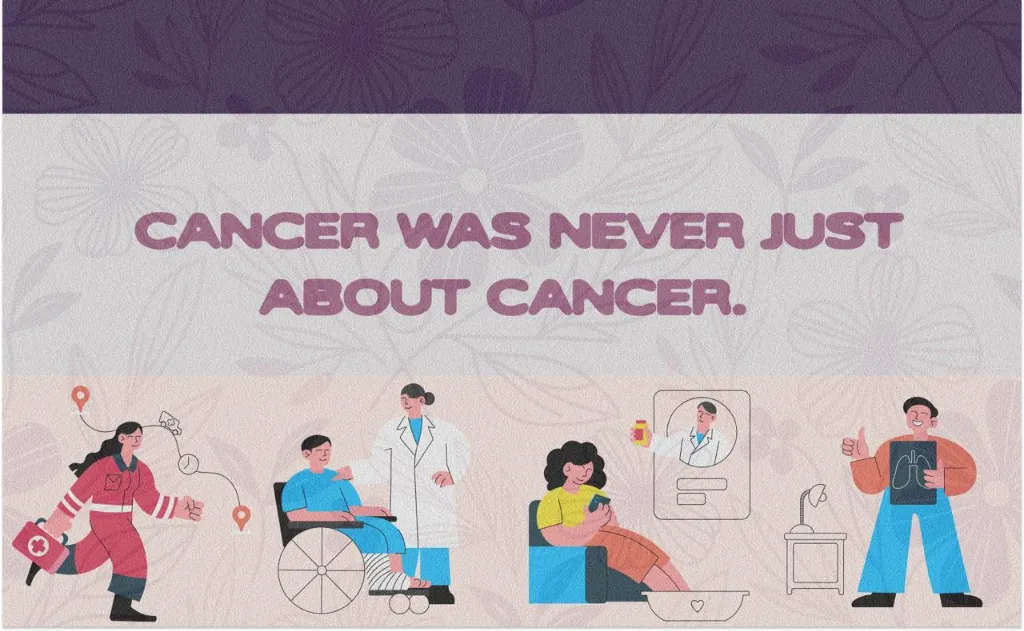
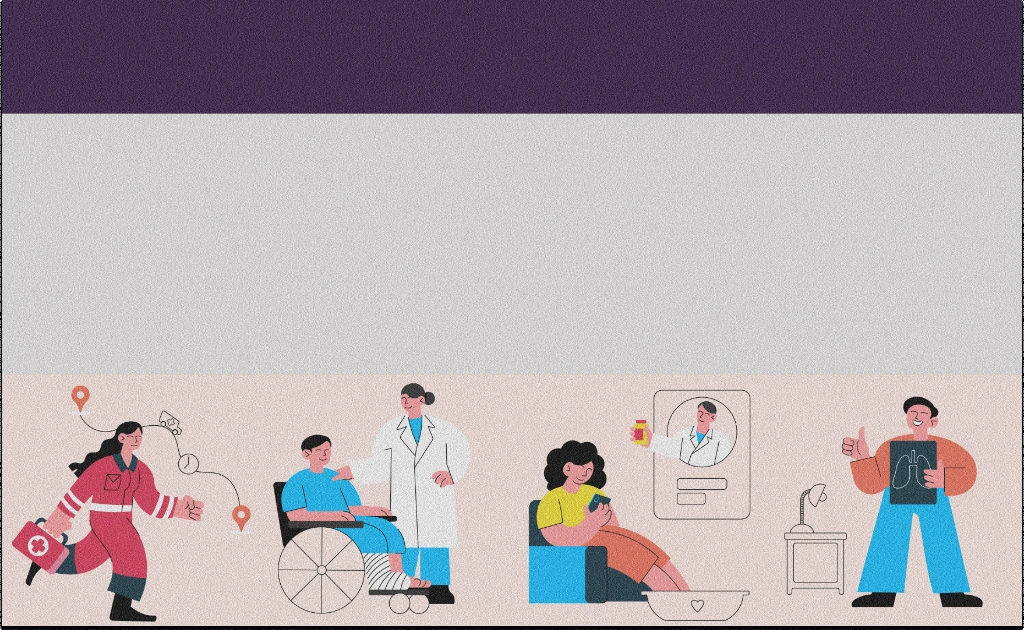
changes

diff --git a/src/components/sections/AnimatedStory.css b/src/components/sections/AnimatedStory.css
@@ -5,6 +5,7 @@
   min-height: 100dvh;
   overflow: hidden;
   background: #0b0b0c;
+  position: relative;
 }
 
 .animated-story__stage {
@@ -46,33 +47,115 @@
   will-change: opacity;
 }
 
-/* Desktop default: edge-to-edge cover */
-.animated-story__slide-bg {
-  display: none;
-}
-
-.animated-story__slide-fg {
+.animated-story__card {
+  position: relative;
+  display: block;
   width: 100%;
   height: 100%;
-  padding: 0;
-  object-fit: cover;
-  object-position: center;
-  display: block;
+  overflow: hidden;
 }
 
+.animated-story__image {
+  position: absolute;
+  inset: 0;
+  display: block;
+  width: 100%;
+  height: 100%;
+  object-fit: cover;
+  object-position: center;
+}
+
+/* Base text overlay */
+.animated-story__overlay {
+  position: absolute;
+  inset: 0;
+  display: flex;
+  width: 100%;
+  height: 100%;
+  pointer-events: none;
+  z-index: 2;
+  box-sizing: border-box;
+}
+
+.animated-story__title {
+  display: flex;
+  flex-direction: column;
+  font-family: var(--font-syne), var(--font-winter-solace), sans-serif;
+  font-weight: 800;
+  text-transform: uppercase;
+}
+
+.animated-story__line {
+  display: block;
+  white-space: nowrap;
+}
+
+/* Slide 1 Styling */
 .animated-story__slide--1 {
   background: #ded2d7;
   animation-delay: -0.15s;
 }
 
+.animated-story__overlay--1 {
+  align-items: center;
+  justify-content: center;
+  padding-bottom: 7.5%;
+}
+
+.animated-story__title--1 {
+  align-items: center;
+  text-align: center;
+  color: #3e244d;
+  font-size: clamp(1.2rem, 3.8vw, 3.5rem);
+  line-height: 1.16;
+  letter-spacing: -0.015em;
+  text-shadow: 0 1px 3px rgba(255, 255, 255, 0.35);
+}
+
+/* Slide 2 Styling */
 .animated-story__slide--2 {
   background: #c6b2bd;
   animation-delay: 1.05s;
 }
 
+.animated-story__overlay--2 {
+  align-items: flex-start;
+  justify-content: flex-start;
+  padding-top: 17%;
+  padding-left: 7%;
+}
+
+.animated-story__title--2 {
+  align-items: center;
+  text-align: center;
+  color: #351c44;
+  font-size: clamp(1.1rem, 3.2vw, 3.1rem);
+  line-height: 1.2;
+  letter-spacing: -0.015em;
+  width: 38%;
+}
+
+/* Slide 3 Styling */
 .animated-story__slide--3 {
   background: #a97d91;
   animation-delay: 2.25s;
+}
+
+.animated-story__overlay--3 {
+  align-items: center;
+  justify-content: flex-end;
+  padding-right: 5.5%;
+}
+
+.animated-story__title--3 {
+  align-items: flex-start;
+  text-align: left;
+  color: #ffffff;
+  font-size: clamp(1.05rem, 3.1vw, 2.9rem);
+  line-height: 1.22;
+  letter-spacing: 0.01em;
+  width: 36%;
+  text-shadow: 0 2px 14px rgba(0, 0, 0, 0.35);
 }
 
 .animated-story__stage--paused .animated-story__slide {
@@ -95,45 +178,50 @@
   }
 }
 
-/* Mobile & Portrait screens: contain foreground image so it is NEVER cut off */
+/* Mobile & Portrait screens: contain image and card so it is NEVER cut off */
 @media (max-width: 768px), (orientation: portrait) and (max-width: 1024px) {
   .animated-story__slide {
     display: flex;
     align-items: center;
     justify-content: center;
+    padding: 64px 14px 54px;
+    box-sizing: border-box;
+  }
+
+  .animated-story__card {
+    position: relative;
+    width: 100%;
+    aspect-ratio: 1024 / 640;
+    max-height: calc(100vh - 120px);
+    border-radius: 16px;
+    box-shadow: 0 16px 45px rgba(0, 0, 0, 0.45);
     overflow: hidden;
   }
 
-  .animated-story__slide-bg {
-    display: block;
-    position: absolute;
-    inset: -15%;
-    width: 130%;
-    height: 130%;
-    object-fit: cover;
-    object-position: center;
-    filter: blur(28px) brightness(0.65);
-    opacity: 0.85;
-    transform: scale(1.1);
-    pointer-events: none;
-  }
-
-  .animated-story__slide-fg {
-    position: relative;
-    z-index: 1;
+  .animated-story__image {
     width: 100%;
     height: 100%;
-    object-fit: contain;
-    object-position: center;
-    /* Safe padding prevents overlap with fixed top bar and bottom carousel */
-    padding: 4.75rem 0.85rem 3.5rem;
-    filter: drop-shadow(0 8px 30px rgba(0, 0, 0, 0.5));
+    object-fit: cover;
+  }
+
+  .animated-story__title--1 {
+    font-size: clamp(0.78rem, 3.4vw, 1.4rem);
+  }
+
+  .animated-story__title--2 {
+    font-size: clamp(0.72rem, 3vw, 1.25rem);
+    width: 42%;
+  }
+
+  .animated-story__title--3 {
+    font-size: clamp(0.68rem, 2.8vw, 1.2rem);
+    width: 38%;
   }
 }
 
 .animated-story__play {
   position: absolute;
-  z-index: 2;
+  z-index: 3;
   top: 50%;
   left: 50%;
   display: grid;

diff --git a/src/components/sections/AnimatedStory.tsx b/src/components/sections/AnimatedStory.tsx
@@ -3,22 +3,47 @@
 import { useState } from "react";
 import "./AnimatedStory.css";
 
+type StorySlide = {
+  id: number;
+  image: string;
+  lines: string[];
+};
+
+const defaultSlides: StorySlide[] = [
+  {
+    id: 1,
+    image: "/assets/story-bg-1.webp",
+    lines: ["CANCER WAS NEVER JUST", "ABOUT CANCER."],
+  },
+  {
+    id: 2,
+    image: "/assets/story-bg-2.webp",
+    lines: ["SO, WE STARTED", "ASKING WHY."],
+  },
+  {
+    id: 3,
+    image: "/assets/story-bg-3.webp",
+    lines: ["BECAUSE", "NO ONE", "CHANGES", "THE", "SYSTEM", "ALONE."],
+  },
+];
+
 type AnimatedStoryProps = {
+  slides?: StorySlide[];
   images?: string[];
   className?: string;
 };
 
-const defaultImages = [
-  "/assets/story-bg-1.webp",
-  "/assets/story-bg-2.webp",
-  "/assets/story-bg-3.webp",
-];
-
 export default function AnimatedStory({
-  images = defaultImages,
+  slides = defaultSlides,
+  images,
   className = "",
 }: AnimatedStoryProps) {
   const [isPlaying, setIsPlaying] = useState(true);
+
+  // Allow passing raw image URLs array as fallback
+  const resolvedSlides: StorySlide[] = images && images.length > 0
+    ? images.map((src, idx) => defaultSlides[idx] || { id: idx + 1, image: src, lines: [] })
+    : slides;
 
   return (
     <section
@@ -34,28 +59,30 @@ export default function AnimatedStory({
         aria-label={isPlaying ? "Pause animation" : "Play animation"}
       >
         <span className="animated-story__slides" aria-hidden="true">
-          {images.map((source, index) => (
+          {resolvedSlides.map((slide, index) => (
             <span
-              key={`${source}-${index}`}
-              className={`animated-story__slide animated-story__slide--${
-                index + 1
-              }`}
+              key={`${slide.image}-${index}`}
+              className={`animated-story__slide animated-story__slide--${slide.id}`}
             >
-              {/* Mobile Ambient Blurred Backdrop: fills full 100vh viewport softly so no cutoff */}
-              <img
-                className="animated-story__slide-bg"
-                src={source}
-                alt=""
-                fetchPriority={index === 0 ? "high" : "auto"}
-                aria-hidden="true"
-              />
-              {/* Main Crisp Foreground Image: contained on mobile to prevent cutoff, cover on desktop */}
-              <img
-                className="animated-story__slide-fg"
-                src={source}
-                alt=""
-                fetchPriority={index === 0 ? "high" : "auto"}
-              />
+              <span className="animated-story__card">
+                <img
+                  className="animated-story__image"
+                  src={slide.image}
+                  alt=""
+                  fetchPriority={index === 0 ? "high" : "auto"}
+                />
+                {slide.lines && slide.lines.length > 0 && (
+                  <span className={`animated-story__overlay animated-story__overlay--${slide.id}`}>
+                    <span className={`animated-story__title animated-story__title--${slide.id}`}>
+                      {slide.lines.map((line, lIdx) => (
+                        <span key={lIdx} className="animated-story__line">
+                          {line}
+                        </span>
+                      ))}
+                    </span>
+                  </span>
+                )}
+              </span>
             </span>
           ))}
         </span>

diff --git a/src/components/sections/EntranceAnimation.tsx b/src/components/sections/EntranceAnimation.tsx
@@ -66,9 +66,22 @@ export default function EntranceAnimation({ onComplete }: EntranceAnimationProps
   const [preloaderComplete, setPreloaderComplete] = useState(false);
   const [complete, setComplete] = useState(false);
 
+  const finish = () => {
+    try {
+      sessionStorage.setItem("tcf_seen_intro", "1");
+    } catch {}
+    setComplete(true);
+    document.body.style.overflow = "";
+    if (onComplete) onComplete();
+  };
+
   useEffect(() => {
-    if (window.matchMedia("(prefers-reduced-motion: reduce)").matches) {
+    if (
+      window.matchMedia("(prefers-reduced-motion: reduce)").matches ||
+      Boolean(sessionStorage.getItem("tcf_seen_intro"))
+    ) {
       setComplete(true);
+      document.body.style.overflow = "";
       if (onComplete) onComplete();
       return;
     }
@@ -78,21 +91,25 @@ export default function EntranceAnimation({ onComplete }: EntranceAnimationProps
     setComplete(false);
     document.body.style.overflow = "hidden";
 
-    const readyTimer = window.setTimeout(() => setReady(true), 1700);
+    const readyTimer = window.setTimeout(() => setReady(true), 1200);
     const preloaderTimer = window.setTimeout(
       () => setPreloaderComplete(true),
-      3600
+      2500
     );
-    const completeTimer = window.setTimeout(() => {
-      setComplete(true);
-      document.body.style.overflow = "";
-      if (onComplete) onComplete();
-    }, 5700);
+    const completeTimer = window.setTimeout(finish, 3800);
+
+    const handleKey = (e: KeyboardEvent) => {
+      if (e.key === "Escape" || e.key === " " || e.key === "Enter") {
+        finish();
+      }
+    };
+    window.addEventListener("keydown", handleKey);
 
     return () => {
       window.clearTimeout(readyTimer);
       window.clearTimeout(preloaderTimer);
       window.clearTimeout(completeTimer);
+      window.removeEventListener("keydown", handleKey);
       document.body.style.overflow = "";
     };
   }, [sequence, onComplete]);
@@ -100,7 +117,7 @@ export default function EntranceAnimation({ onComplete }: EntranceAnimationProps
   return (
     <>
       {!complete && (
-        <div key={sequence} className="entrance-container">
+        <div key={sequence} className="entrance-container" onClick={finish}>
           {/* Top Header - ONLY "THE CARCINO FOUNDATION", NO EXTRA TEXT */}
           <header className="entrance-nav" aria-label="Top Brand Header">
             <Wordmark />

diff --git a/src/components/sections/OurVisionSection.tsx b/src/components/sections/OurVisionSection.tsx
@@ -109,15 +109,6 @@ export default function WhatWeAreBuilding() {
       }
 
       const sectionRect = section.getBoundingClientRect();
-
-      // Skip expensive DOM style updates when section is offscreen
-      if (
-        sectionRect.bottom < -150 ||
-        sectionRect.top > window.innerHeight + 150
-      ) {
-        return;
-      }
-
       const scrollDistance = section.offsetHeight - window.innerHeight;
 
       if (scrollDistance <= 0) {

diff --git a/src/components/AnimatedStory.css b/src/components/AnimatedStory.css
@@ -1,0 +1,2 @@
+@import "./sections/AnimatedStory.css";
+
